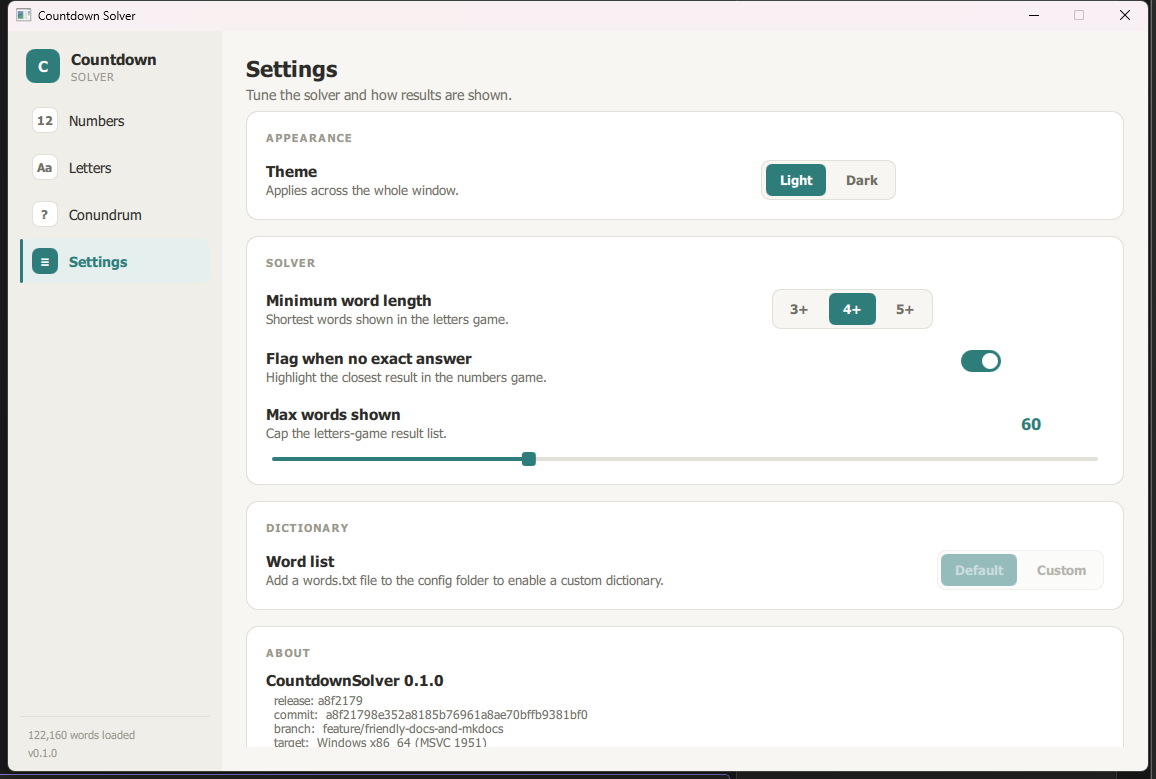
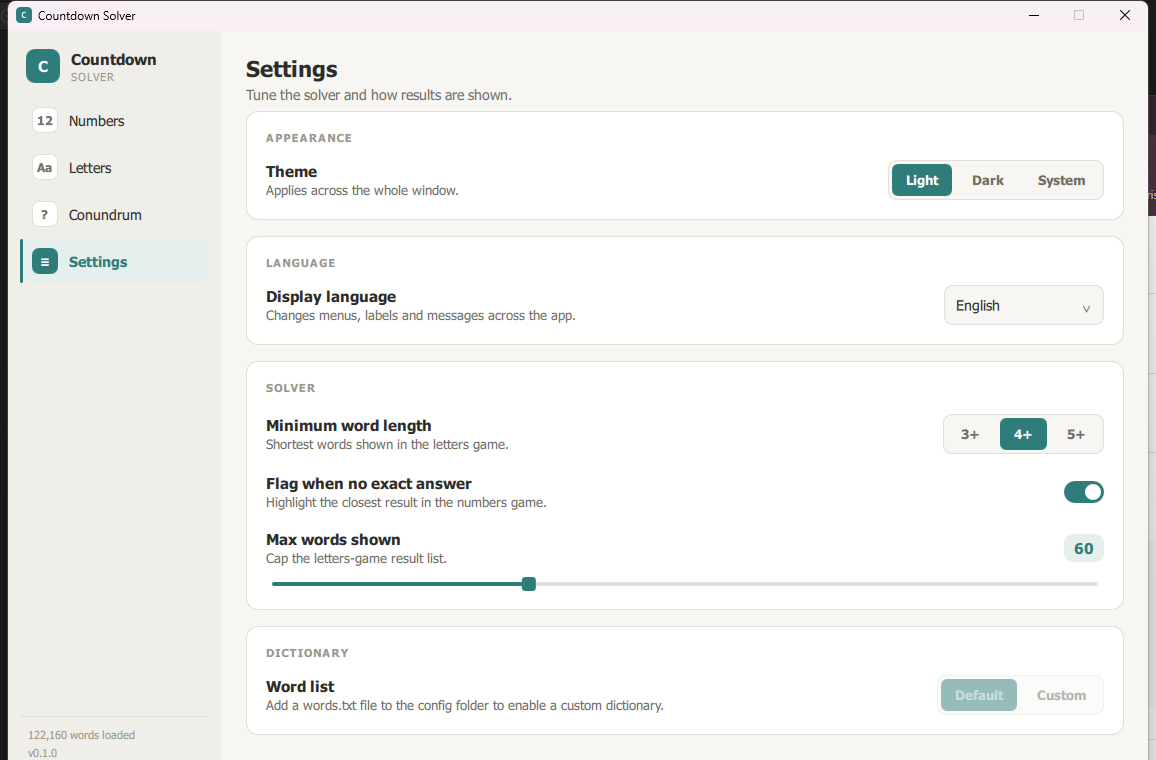
Refresh Settings screenshot, add RTL example, document supported platforms
settings.png predated the Language card and no longer matched the app;
recaptured it (light theme, to match the rest of the site) and added a
second screenshot showing the Settings page in Arabic to make the
right-to-left support visible rather than just described in prose.

Also add a Supported platforms table to building.md covering what CI
actually builds/tests per OS+arch, and what a downloaded package needs to
run (notably Linux's Qt version gate on the .deb).

diff --git a/docs/building.md b/docs/building.md
@@ -1,5 +1,29 @@
 # Building & packaging
 
+## Supported platforms
+
+What's actually built and tested by CI — see
+[CI & dependencies](ci.md) for the exact matrix:
+
+| Platform | Architecture | Build | Run (packaged build) |
+| --- | --- | --- | --- |
+| Windows | x64 | MSVC 19.40+ (VS 2022 17.10+ / VS 18), tested on Windows Server 2025 | `.zip` or NSIS installer; Qt runtime is bundled, nothing extra to install |
+| macOS | arm64 (Apple Silicon) | AppleClang, tested on macOS 15 (Sequoia) | `.zip` or `.dmg`; Qt runtime is bundled. Intel Macs aren't covered by CI |
+| Linux | x64 | GCC 15 or Clang 21, tested on Ubuntu 24.04 | See below — unlike Windows/macOS, Linux packages don't bundle Qt |
+
+`countdown::solver` itself (`-DCOUNTDOWN_BUILD_APP=OFF`) has no GUI or
+platform-specific code — see [Architecture](architecture.md) — so it isn't
+restricted to this table; any C++23 compiler with CMake 4+ and Ninja
+should work even where the full GUI app isn't verified.
+
+**Running Linux packages**: the `.zip`/`.tar.gz` expect a system Qt 6.8+
+already installed, since Qt's CMake deploy step doesn't support Linux (see
+[Packaging](#packaging) below). The `.deb` declares that dependency
+explicitly, so `apt install` refuses on a system that can't satisfy it —
+in practice **Debian 13 (trixie) or newer, and Ubuntu 25.04 or newer**.
+The `.rpm` resolves its own Qt version requirement automatically via
+`rpmbuild`'s auto-requires.
+
 ## Presets
 
 Every preset states its build type explicitly:

diff --git a/docs/how-to-play.md b/docs/how-to-play.md
@@ -64,7 +64,10 @@ missing instead of showing a result.
 
 Settings also has a language picker: **English**, plus **French, German,
 Spanish, Arabic, Hebrew, and Yiddish** — including right-to-left layout
-for Arabic and Hebrew.
+for Arabic and Hebrew, shown here with the display language set to
+Arabic:
+
+![Settings page in Arabic, showing the mirrored right-to-left layout](assets/screenshots/settings-arabic-rtl.png)
 
 As of `0.1.0-beta.1`, this switches the app's UI chrome — menus, buttons,
 Settings itself — fully. It does **not** yet change the gameplay: the